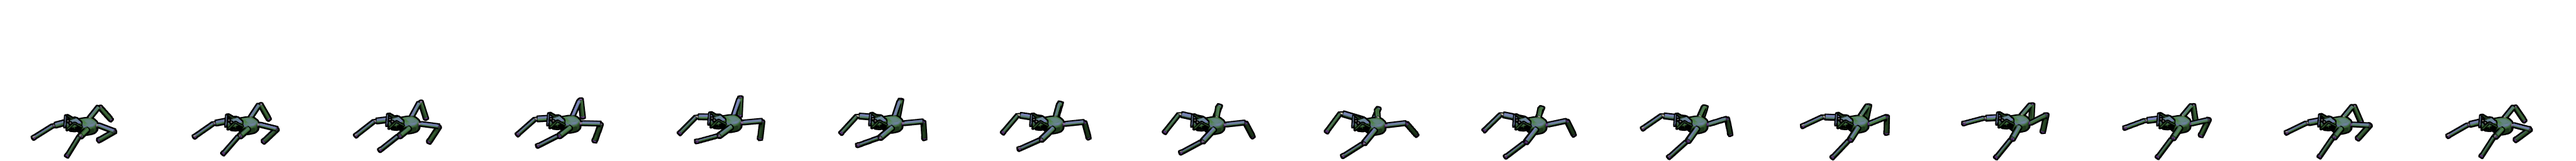
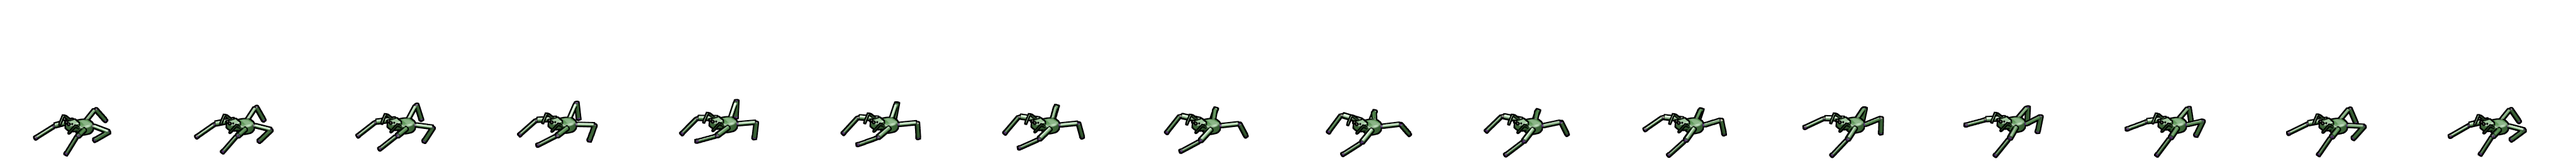
added more spiderwoof animations
-added more animations (bite, swipe), fixed idle animation

diff --git a/Graphics.c b/Graphics.c
@@ -331,7 +331,7 @@ Sprite* GCreateSprite(float _spriteX, float _spriteY, Animation* _animation, flo
 /*!
 \brief creates a hud sprite with given parameters
 Sprite is appended to last on the list (more recently created elements are rendered first.
-
++
 \param _spriteX is the x position of the created sprite
 \param _spriteY is the y position of the created sprite
 \param _animation is the animation for the new sprite

diff --git a/EnemyAnimations.c b/EnemyAnimations.c
@@ -33,7 +33,7 @@ static AnimationDefinition animationSpiderWolf[] =
 void EnemyAnimationInitialize(GameObject* enemy)
 {
   int walkFrames = 16;
-  int idleFrames = 16;
+  int idleFrames = 1;
   AEGfxVertexList* walkMesh = GCreateMesh(256.f, 256.f, walkFrames, 1);
   AEGfxVertexList* idleMesh = GCreateMesh(256.f, 256.f, idleFrames, 1);
 
